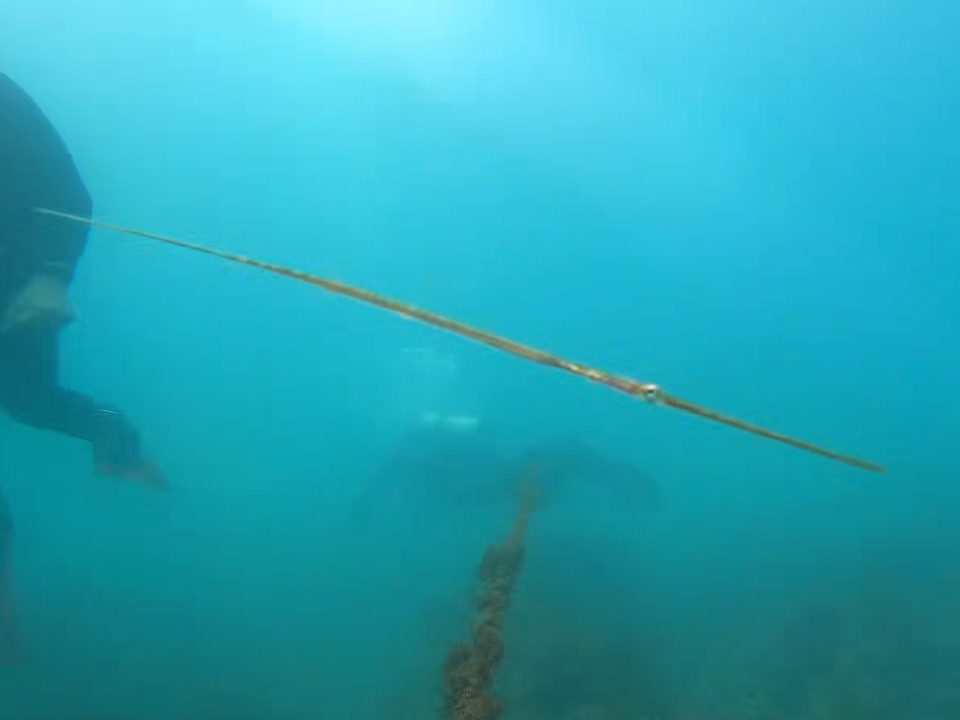
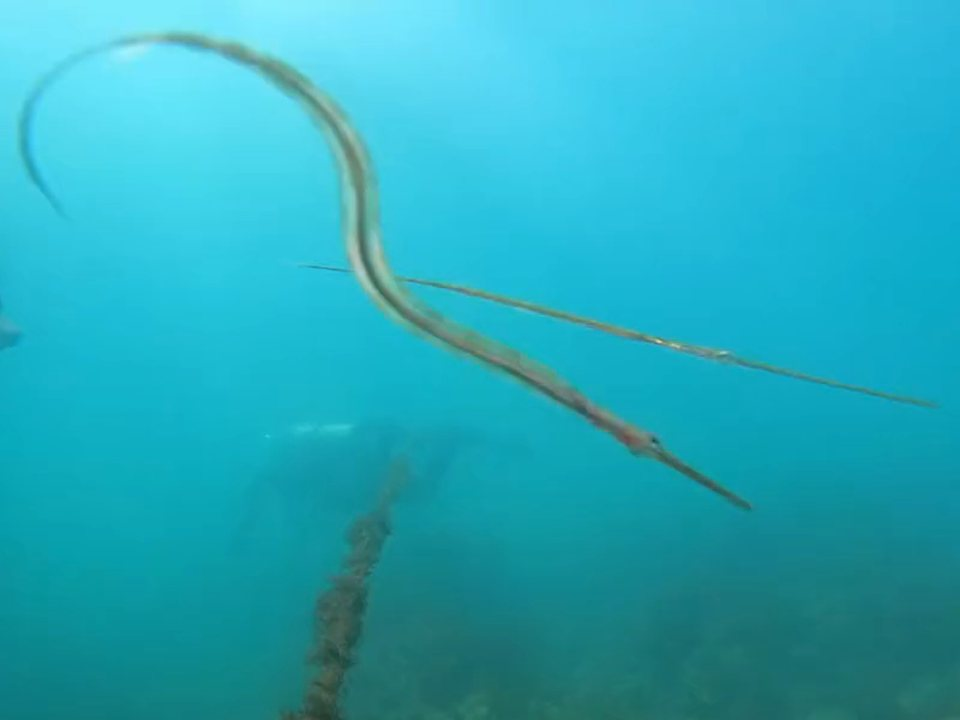
Diving Bryant: the cornetfish picture shows the cornetfish
The still named "A cornetfish" was cut from the middle of its shot, where only a straight
thin strand is left in the picture. The fish is on screen for the first third of a second
of that shot, bending past the camera. The still is now the first frame of the shot, the
film starts on that frame when the still is pressed, and the words say that the fish
swims past in less than one second.

diff --git a/applications.html b/applications.html
@@ -12,7 +12,7 @@
 <link rel="preconnect" href="https://fonts.googleapis.com">
 <link rel="preconnect" href="https://fonts.gstatic.com" crossorigin>
 <link rel="stylesheet" href="https://fonts.googleapis.com/css2?family=Fraunces:ital,opsz,wght@0,9..144,300..600;1,9..144,300..600&family=IBM+Plex+Mono:wght@400;500&family=Inter:wght@400;500&display=swap">
-<link rel="stylesheet" href="css/hub.css?v=1790948552">
+<link rel="stylesheet" href="css/hub.css?v=1790953047">
 <style>
 /* A directory, not a brochure: the grid has to stay readable at two apps and at twenty, so a card
    carries only a picture, a name, one line and what it needs. Everything else waits in a sheet
@@ -111,7 +111,7 @@
 
       <li><a class="card" style="--ac:#2DD4BF" href="https://github.com/Mompel226/seating-plan"
              data-app="seating-plan" aria-describedby="s-seating-plan-sum">
-        <img class="card__thumb" src="assets/apps/seating-plan-card.jpg?v=1790948552" width="800" height="450" loading="lazy"
+        <img class="card__thumb" src="assets/apps/seating-plan-card.jpg?v=1790953047" width="800" height="450" loading="lazy"
              alt="A seating plan: benches of four in a room, each chair holding a card with a photograph and a name.">
         <span class="card__b">
           <span class="card__kind">Classroom</span>
@@ -124,7 +124,7 @@
 
       <li><a class="card" style="--ac:#E879F9" href="https://github.com/Mompel226/birthday-reminder"
              data-app="birthday-reminder" aria-describedby="s-birthday-sum">
-        <img class="card__thumb" src="assets/apps/birthday-calendar-card.jpg?v=1790948552" width="800" height="450" loading="lazy"
+        <img class="card__thumb" src="assets/apps/birthday-calendar-card.jpg?v=1790953047" width="800" height="450" loading="lazy"
              alt="A birthday calendar for September, with cards for today and the days after along the top.">
         <span class="card__b">
           <span class="card__kind">Pastoral</span>
@@ -168,7 +168,7 @@
 <div id="details" hidden>
 
   <div data-detail="seating-plan" data-ac="#2DD4BF" data-kind="Classroom"
-       data-shot="assets/apps/seating-plan.jpg?v=1790948552"
+       data-shot="assets/apps/seating-plan.jpg?v=1790953047"
        data-alt="A seating plan: six benches of four in a room with a whiteboard, screen and teacher's desk at the front. Each chair holds a card with a photograph, a first name and a surname."
        data-repo="https://github.com/Mompel226/seating-plan">
     <h3 data-name>Draw the room once, then <em>drag faces into chairs</em></h3>
@@ -189,7 +189,7 @@
   </div>
 
   <div data-detail="birthday-reminder" data-ac="#E879F9" data-kind="Pastoral"
-       data-shot="assets/apps/birthday-calendar.jpg?v=1790948552"
+       data-shot="assets/apps/birthday-calendar.jpg?v=1790953047"
        data-alt="A birthday calendar for September, with cards along the top for today, tomorrow and the days after, and small student cards on the dates in the month grid."
        data-repo="https://github.com/Mompel226/birthday-reminder">
     <h3 data-name>A window that <em>finds you</em>, in the morning</h3>

diff --git a/js/local.js b/js/local.js
@@ -364,8 +364,8 @@ window.HUB_LOCAL = {
        the base of the pectoral fin (FishBase), with the nearly black tail of a terminal-phase adult,
        and Korea is in its range; the anemonefish is Amphiprion clarkii (dark body, white bars, yellow
        snout, fins and tail; its range reaches north to Korea); the cornetfish is a Fistularia by its
-       very thin body and tail filament, the species not settled (F. commersonii or F. petimba), so
-       only the genus is given. The school and the sea fan are NOT named to species, on purpose. */
+       long tube-like snout and the thin thread at the end of its tail (seen in the first frame of
+       its shot), the species not settled (F. commersonii or F. petimba), so only the genus is given. The school and the sea fan are NOT named to species, on purpose. */
     { id:'diving', kind:'bryant', feature:true, name:'Scuba diving',
       eyebrow:'Bryant \u00B7 Scuba diving',
       title:'Learn to <em>dive</em>', sub:'and see the animals of Jeju\u2019s sea',
@@ -394,9 +394,13 @@ window.HUB_LOCAL = {
           { img:'diving-anemonefish', at:29.3, t:'Clark\u2019s anemonefish', sci:'Amphiprion clarkii',
             text:'The tentacles of a sea anemone sting other fish. The anemonefish is safe between them.',
             alt:'A small black, white and yellow fish among the pale tentacles of sea anemones' },
-          { img:'diving-cornetfish', at:42.7, t:'A cornetfish', sci:'Fistularia',
-            text:'A long, thin fish that hunts smaller fish.',
-            alt:'A very long, thin fish in green water, with a diver behind it' },
+          /* The fish is in the picture only for the first third of a second of its shot (42.68 to
+             about 43.0): it bends past the camera and is gone. The straight thin strand that stays in
+             the shot afterwards is NOT the fish (the first still, made from 43.6 s, showed only that
+             strand: Daniel, 2 Oct 2026). The still is the first frame of the shot. */
+          { img:'diving-cornetfish', at:42.68, t:'A cornetfish', sci:'Fistularia',
+            text:'A long, thin fish that hunts smaller fish. In the film it swims past in less than one second: watch the start.',
+            alt:'A very long, thin fish bending in an S shape close to the camera: a small head with a long tube-like snout, and a tail that ends in a thin thread. A straight thin strand crosses behind it.' },
           { img:'diving-seafan', t:'A red sea fan',
             text:'It is not a plant: it is a colony of small animals called polyps. A fish is resting below it, and its colours match the rock. Can you see it?',
             alt:'A red sea fan with white polyps on a reef; a mottled brown fish rests on the rock under it' } ] },

diff --git a/analysis.html b/analysis.html
@@ -16,9 +16,9 @@
 <link rel="preconnect" href="https://fonts.googleapis.com">
 <link rel="preconnect" href="https://fonts.gstatic.com" crossorigin>
 <link rel="stylesheet" href="https://fonts.googleapis.com/css2?family=Fraunces:ital,opsz,wght@0,9..144,300..600;1,9..144,300..600&family=IBM+Plex+Mono:wght@400;500&family=Inter:wght@400;500;600&display=swap">
-<link rel="stylesheet" href="css/analysis.css?v=1790948552">
+<link rel="stylesheet" href="css/analysis.css?v=1790953047">
 <!-- the bright or the dark version, set before the page draws (the computer's own setting until ☀/☾ is pressed) -->
-<script src="js/theme.js?v=1790948552"></script>
+<script src="js/theme.js?v=1790953047"></script>
 </head>
 <body>
 
@@ -45,10 +45,10 @@
 
 <!-- Google's sign-in, in English on every computer (hl=en-GB) -->
 <script src="https://accounts.google.com/gsi/client?hl=en-GB" async defer></script>
-<script src="js/local.js?v=1790948552"></script>
-<script src="js/signin.js?v=1790948552"></script>
-<script src="js/balance.js?v=1790948552"></script>
-<script src="js/syllabus-outline.js?v=1790948552"></script>
-<script src="js/analysis.js?v=1790948552"></script>
+<script src="js/local.js?v=1790953047"></script>
+<script src="js/signin.js?v=1790953047"></script>
+<script src="js/balance.js?v=1790953047"></script>
+<script src="js/syllabus-outline.js?v=1790953047"></script>
+<script src="js/analysis.js?v=1790953047"></script>
 </body>
 </html>

diff --git a/index.html b/index.html
@@ -12,7 +12,7 @@
 <link rel="preconnect" href="https://fonts.googleapis.com">
 <link rel="preconnect" href="https://fonts.gstatic.com" crossorigin>
 <link rel="stylesheet" href="https://fonts.googleapis.com/css2?family=Fraunces:ital,opsz,wght@0,9..144,300..600;1,9..144,300..600&family=IBM+Plex+Mono:wght@400;500&family=Inter:wght@400;500&display=swap">
-<link rel="stylesheet" href="css/hub.css?v=1790948552">
+<link rel="stylesheet" href="css/hub.css?v=1790953047">
 </head>
 <body>
 
@@ -177,12 +177,12 @@
      leaves the rest of the hub exactly as it is — js/hub.js checks before it asks. -->
 <script src="https://accounts.google.com/gsi/client?hl=en-GB" async defer></script>
 
-<script src="js/data/labs.js?v=1790948552"></script>
-<script src="js/data/syllabus-years.js?v=1790948552"></script>
-<script src="js/progress.js?v=1790948552"></script>
-<script src="js/signin.js?v=1790948552"></script>
-<script src="js/shelves.js?v=1790948552"></script>
-<script src="js/local.js?v=1790948552"></script>
-<script src="js/hub.js?v=1790948552"></script>
+<script src="js/data/labs.js?v=1790953047"></script>
+<script src="js/data/syllabus-years.js?v=1790953047"></script>
+<script src="js/progress.js?v=1790953047"></script>
+<script src="js/signin.js?v=1790953047"></script>
+<script src="js/shelves.js?v=1790953047"></script>
+<script src="js/local.js?v=1790953047"></script>
+<script src="js/hub.js?v=1790953047"></script>
 </body>
 </html>
